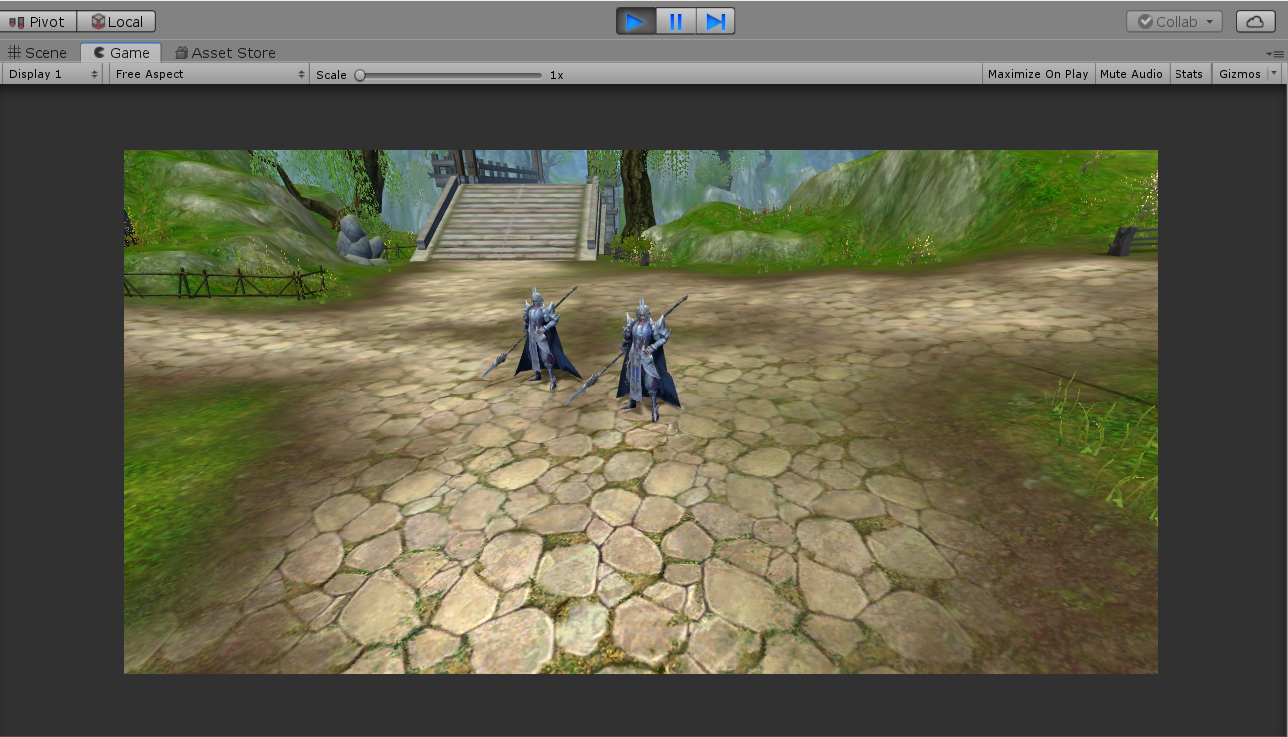
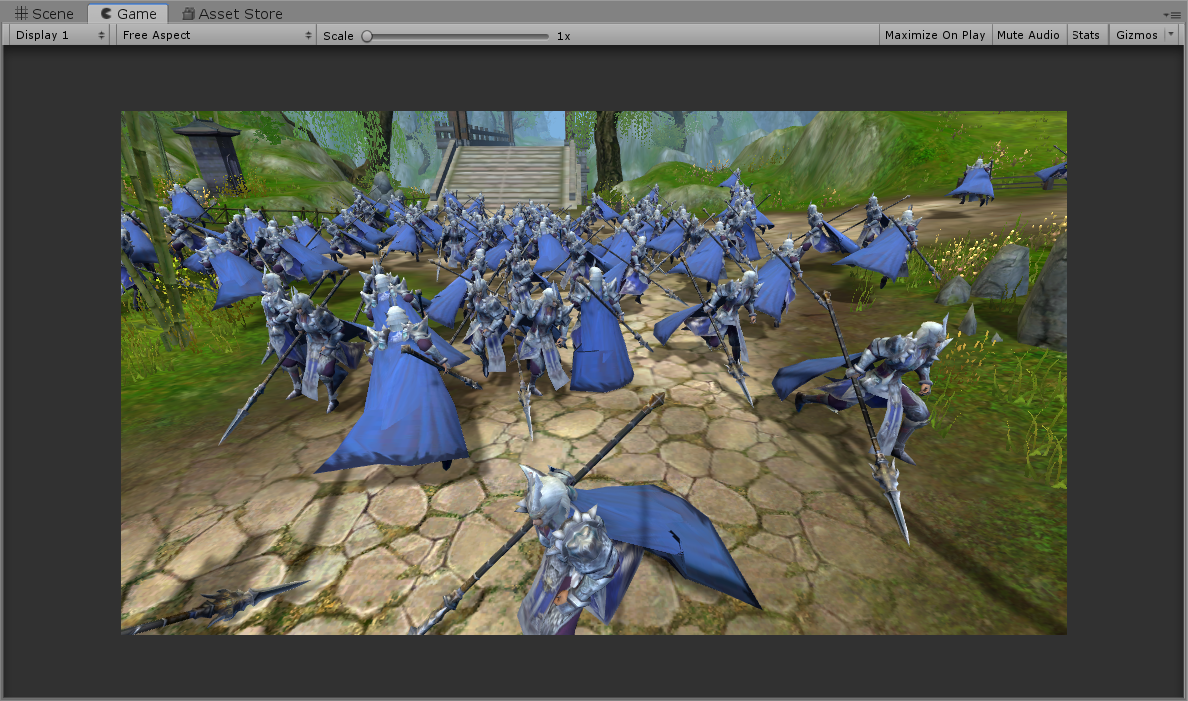
robot

diff --git a/src/tools/robots/robot_state_game.cpp b/src/tools/robots/robot_state_game.cpp
@@ -2,6 +2,11 @@
 #include "robot.h"
 #include "libserver/message_system_help.h"
 #include "robot_component_gametoken.h"
+#include "libserver/log4_help.h"
+#include "global_robots.h"
+
+#include <chrono>
+#include <random>
 
 void RobotStateGameConnecting::OnEnterState()
 {
@@ -33,5 +38,54 @@ void RobotStateGameConnected::OnEnterState()
     protoLogin.set_token(tokenObj->GetToken().c_str());
 
     MessageSystemHelp::SendPacket(Proto::MsgId::C2G_LoginByToken, protoLogin, _pParentObj);
+}
+
+RobotStateType RobotStateSpaceEnterWorld::OnUpdate()
+{
+    // 进入世界后，切换到随机移动状态
+    return RobotStateType::Space_Roaming;
+}
+
+void RobotStateSpaceRoaming::OnEnterState()
+{
+    _lastMoveTime = std::chrono::steady_clock::now();
+}
+
+RobotStateType RobotStateSpaceRoaming::OnUpdate()
+{
+    auto now = std::chrono::steady_clock::now();
+    auto elapsed = std::chrono::duration_cast<std::chrono::seconds>(now - _lastMoveTime).count();
+
+    if (elapsed < _moveIntervalSec)
+        return GetState();
+
+    _lastMoveTime = now;
+
+    // 在初始位置附近随机生成目标坐标
+    auto pos = _pParentObj->GetPosition();
+
+    std::random_device rd;
+    std::mt19937 gen(rd());
+    std::uniform_real_distribution<float> dis(-_moveRange, _moveRange);
+
+    float targetX = pos.X + dis(gen);
+    float targetZ = pos.Z + dis(gen);
+
+    // 发送移动协议（单点路径）
+    Proto::Move protoMove;
+    auto pPos = protoMove.add_position();
+    pPos->set_x(targetX);
+    pPos->set_y(pos.Y);
+    pPos->set_z(targetZ);
+
+    MessageSystemHelp::SendPacket(Proto::MsgId::C2S_Move, protoMove, _pParentObj);
+
+    if (GlobalRobots::GetInstance()->GetRobotsCount() == 1)
+    {
+        LOG_DEBUG("robot move. account:" << _pParentObj->GetAccount().c_str()
+            << " target:(" << targetX << ", " << pos.Y << ", " << targetZ << ")");
+    }
+
+    return GetState();
 }
 

diff --git a/src/tools/robots/robot_state_game.h b/src/tools/robots/robot_state_game.h
@@ -1,6 +1,7 @@
 #pragma once
 
 #include "robot_state.h"
+#include <chrono>
 
 class RobotStateGameConnecting : public RobotState
 {
@@ -14,7 +15,7 @@ public:
 class RobotStateGameConnected : public RobotState
 {
 public:
-    DynamicStateCreate(RobotStateGameConnected, RobotStateType::Game_Connected);
+	DynamicStateCreate(RobotStateGameConnected, RobotStateType::Game_Connected);
 
 	void OnEnterState() override;
 };
@@ -29,4 +30,18 @@ class RobotStateSpaceEnterWorld : public RobotState
 {
 public:
     DynamicStateCreate(RobotStateSpaceEnterWorld, RobotStateType::Space_EnterWorld);
+    RobotStateType OnUpdate() override;
+};
+
+class RobotStateSpaceRoaming : public RobotState
+{
+public:
+    DynamicStateCreate(RobotStateSpaceRoaming, RobotStateType::Space_Roaming);
+    void OnEnterState() override;
+    RobotStateType OnUpdate() override;
+
+private:
+    std::chrono::steady_clock::time_point _lastMoveTime;
+    float _moveRange{ 30.0f };       // 随机移动范围（相对初始位置）
+    int _moveIntervalSec{ 3 };       // 移动间隔（秒）
 };

diff --git a/src/tools/robots/robot_collection.cpp b/src/tools/robots/robot_collection.cpp
@@ -221,8 +221,14 @@ void RobotCollection::HandleLoginByTokenRs(Robot* pRobot, Packet* pPacket)
 void RobotCollection::HandleEnterWorld(Robot* pRobot, Packet* pPacket)
 {
     auto proto = pPacket->ParseToProto<Proto::EnterWorld>();
+
+    // 存储初始位置，供随机移动使用
+    const auto& pos = proto.position();
+    pRobot->SetPosition(Vector3(pos.x(), pos.y(), pos.z()));
+
     pRobot->EnterWorld(proto.world_id());
 
     if (GlobalRobots::GetInstance()->GetRobotsCount() == 1)
-        LOG_DEBUG("account:" << pRobot->GetAccount().c_str() << " enter world. id:" << proto.world_id());
+        LOG_DEBUG("account:" << pRobot->GetAccount().c_str() << " enter world. id:" << proto.world_id()
+            << " pos:(" << pos.x() << ", " << pos.y() << ", " << pos.z() << ")");
 }

diff --git a/src/tools/robots/robot.cpp b/src/tools/robots/robot.cpp
@@ -61,6 +61,7 @@ void Robot::RegisterState()
     RegisterStateClass(RobotStateType::Game_Logined, DynamicStateBind(RobotStateGameLogined));
 
     RegisterStateClass(RobotStateType::Space_EnterWorld, DynamicStateBind(RobotStateSpaceEnterWorld));
+    RegisterStateClass(RobotStateType::Space_Roaming, DynamicStateBind(RobotStateSpaceRoaming));
 }
 
 void Robot::EnterWorld(int worldId)
@@ -70,4 +71,14 @@ void Robot::EnterWorld(int worldId)
         return;
 
     ChangeState(RobotStateType::Space_EnterWorld);
+}
+
+Vector3 Robot::GetPosition() const
+{
+    return _currentPos;
+}
+
+void Robot::SetPosition(const Vector3& pos)
+{
+    _currentPos = pos;
 }

diff --git a/src/libs/libserver/robot_state_type.h b/src/libs/libserver/robot_state_type.h
@@ -19,6 +19,7 @@ enum class RobotStateType
     Game_Logined,           // 登录成功
 
     Space_EnterWorld,       // 进入地图
+    Space_Roaming,          // 随机移动
 
     End,
 };
@@ -39,6 +40,7 @@ const char RobotStateTypeName[][255] = {
     "[Game ] Logined     :",
 
     "[Space] EnterWorld  :",
+    "[Space] Roaming     :",
 };
 
 const char RobotStateTypeShortName[][255] = {
@@ -56,6 +58,7 @@ const char RobotStateTypeShortName[][255] = {
     "Game-Logined",
 
     "Space-EnterWorld",
+    "Space-Roaming",
 };
 
 inline const char* GetRobotStateTypeShortName(RobotStateType stateType)

diff --git a/src/tools/robots/robot.h b/src/tools/robots/robot.h
@@ -2,6 +2,7 @@
 
 #include "libserver/state_template.h"
 #include "libserver/robot_state_type.h"
+#include "libserver/vector3.h"
 
 #include "libplayer/player.h"
 
@@ -16,10 +17,14 @@ public:
     void NetworkDisconnect();
     void EnterWorld(int worldId);
 
+    Vector3 GetPosition() const;
+    void SetPosition(const Vector3& pos);
+
 protected:
     void RegisterState() override;
 
 private:
     int _worldId{ 0 };
+    Vector3 _currentPos{ 0, 0, 0 };
 };
 

diff --git a/README.md b/README.md
@@ -111,6 +111,8 @@ cd bin
 Unity 客户端登录并进入游戏：
 
 ![Unity 登录效果](game.png)
+同时用robot也登录了100个机器人，2核cpu，2G内存的腾讯云服务器上，cpu使用50%。
+![服务器监控](cpu.png)
 
 ### 编译产物
 
